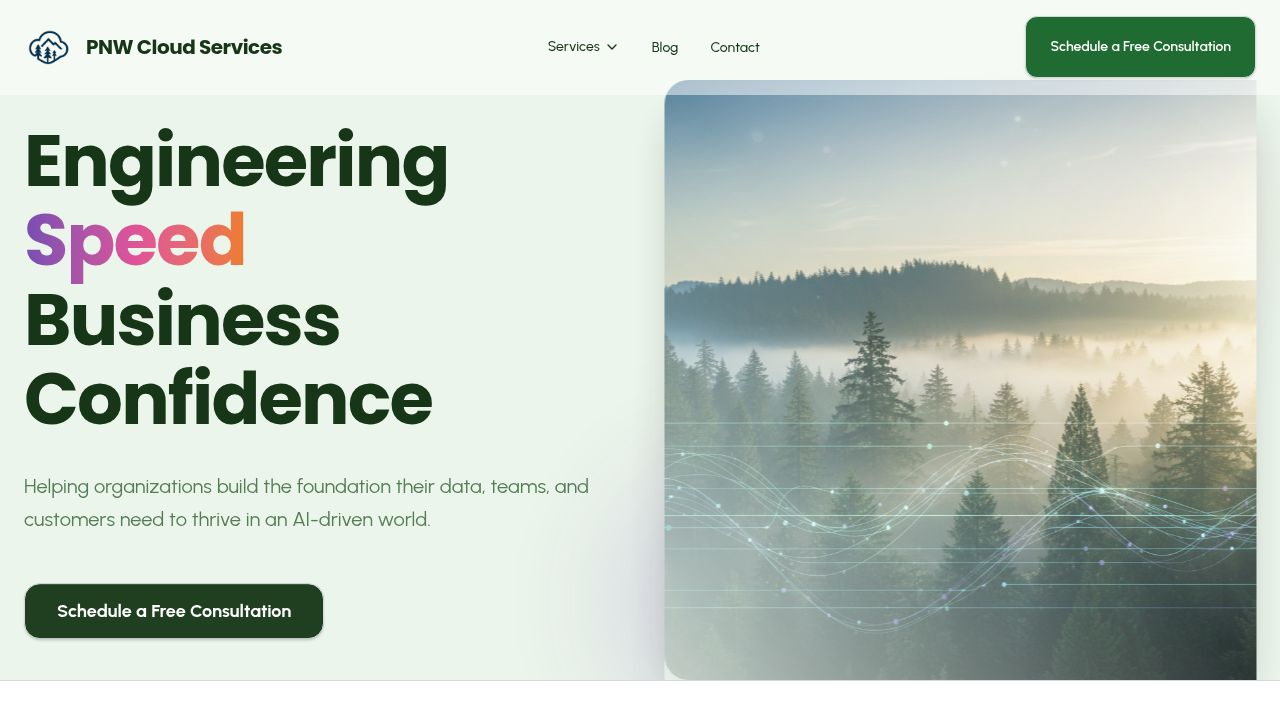
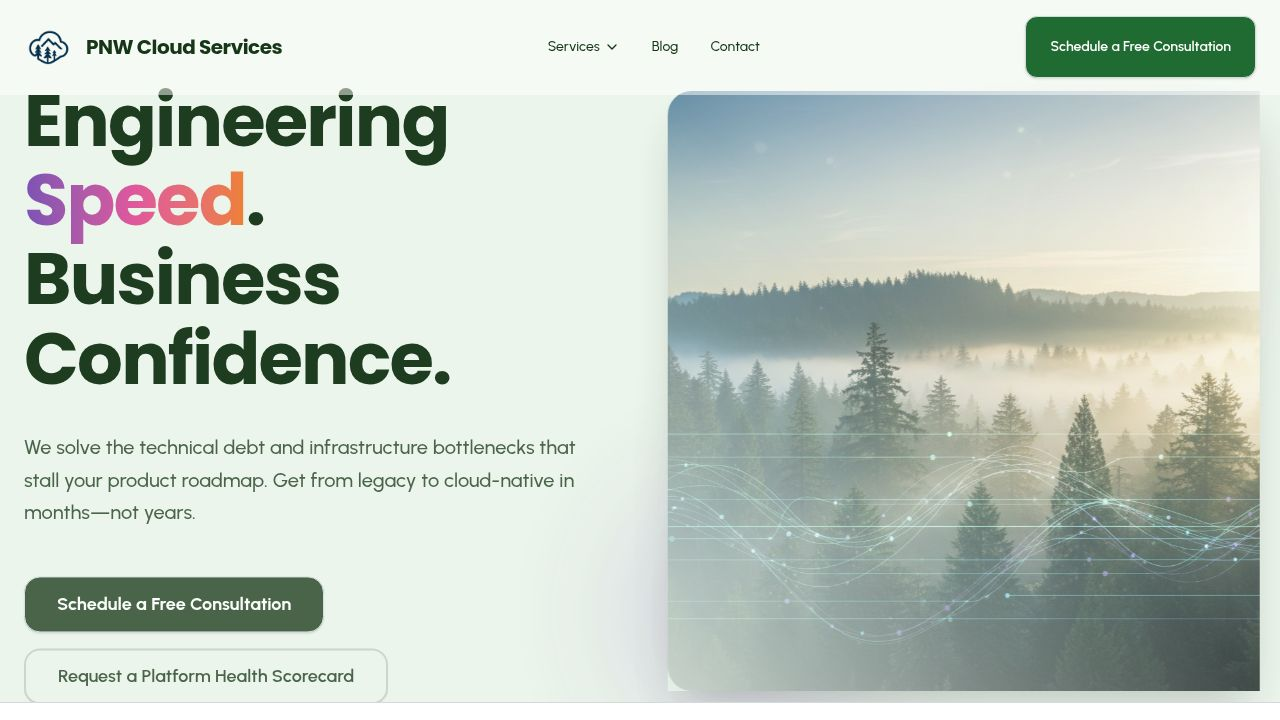
Update website content to emphasize platform modernization and improve clarity
Refactors multiple components including Hero, CTA, ServicesGrid, BlogTeaser, FounderSection, and Stats to align with new content strategy and platform modernization focus. Removes deprecated StartHere component.

Replit-Commit-Author: Agent
Replit-Commit-Session-Id: 9c46f585-9faa-40ad-9e28-5df7e6b5c965
Replit-Commit-Checkpoint-Type: intermediate_checkpoint
Replit-Commit-Event-Id: 414b0277-9a25-4741-8f1c-1562fce32e4d
Replit-Commit-Screenshot-Url: https://storage.googleapis.com/screenshot-production-us-central1/e0d0b5d5-0989-45e9-a5cc-da82de3c706e/9c46f585-9faa-40ad-9e28-5df7e6b5c965/rGMePfd
Replit-Helium-Checkpoint-Created: true

diff --git a/client/src/components/home/services-grid.tsx b/client/src/components/home/services-grid.tsx
@@ -1,58 +1,102 @@
-import { Cloud, Bot, Terminal, Activity, Shield, TrendingDown, ArrowRight } from "lucide-react";
+import { Layout, Cloud, Bot, Terminal, Activity, Shield, TrendingDown, ArrowRight } from "lucide-react";
 import { Link } from "wouter";
 
 const services = [
   {
+    title: "Platform Modernization",
+    description: "Turn fragile legacy systems into platforms built to scale. We modernize monoliths and aging infrastructure into cloud-native platforms that support faster delivery, safer change, and long-term growth—without rewriting your business overnight.",
+    icon: Layout,
+    href: "/platform-modernization",
+    isPrimary: true
+  },
+  {
     title: "Salesforce & CRM Strategy",
-    description: "Align CRM architecture with your go-to-market strategy to accelerate revenue and improve customer insights.",
+    description: "Make your CRM a growth engine, not a workflow bottleneck. We design Salesforce architectures that align data, teams, and automation—so your CRM supports revenue scale instead of slowing it down.",
     icon: Cloud,
-    href: "/salesforce-crm-strategy"
+    href: "/salesforce-crm-strategy",
+    isPrimary: false
   },
   {
     title: "AI & Automation",
-    description: "Deploy intelligent agents and automate complex workflows—responsibly and at scale.",
+    description: "Automate the work that shouldn't need human judgment. We implement practical automation and AI workflows on top of stable platforms—reducing manual effort and improving accuracy without introducing fragility.",
     icon: Bot,
-    href: "/ai-automation"
+    href: "/ai-automation",
+    isPrimary: false
   },
   {
     title: "DevEx & DevOps",
-    description: "Accelerate delivery with internal developer platforms and automated CI/CD pipelines.",
+    description: "Ship changes confidently without breaking production. We build pipelines, environments, and developer tooling that make releases predictable, repeatable, and boring—in the best way.",
     icon: Terminal,
-    href: "/devex-devops"
+    href: "/devex-devops",
+    isPrimary: false
   },
   {
     title: "Observability",
-    description: "Gain visibility into system health to reduce mean time to resolution and improve reliability.",
+    description: "Know what's broken before your customers do. We implement end-to-end visibility so teams can detect issues early, resolve them faster, and understand how system health impacts the business.",
     icon: Activity,
-    href: "/observability"
+    href: "/observability",
+    isPrimary: false
   },
   {
     title: "Compliance & Governance",
-    description: "Operationalize compliance for TCPA, CPRA, and GDPR without slowing delivery.",
+    description: "Build guardrails that enable speed instead of blocking it. We embed security, compliance, and data governance directly into platform design—so teams move fast without creating risk.",
     icon: Shield,
-    href: "/compliance-governance"
+    href: "/compliance-governance",
+    isPrimary: false
   },
   {
     title: "Cloud Strategy & Cost Optimization",
-    description: "Right-size infrastructure and reduce cloud spend while improving performance.",
+    description: "Reduce cloud spend by fixing architecture, not cutting corners. We help teams understand where costs come from, why they grow, and how to optimize sustainably without sacrificing reliability.",
     icon: TrendingDown,
-    href: "/cloud-strategy-cost-optimization"
+    href: "/cloud-strategy-cost-optimization",
+    isPrimary: false
   }
 ];
 
 export function ServicesGrid() {
+  const primaryService = services.find(s => s.isPrimary);
+  const supportingServices = services.filter(s => !s.isPrimary);
+
   return (
     <section className="py-24 bg-white">
       <div className="container mx-auto px-6">
         <div className="text-center max-w-3xl mx-auto mb-16">
-          <h2 className="text-3xl md:text-4xl font-bold text-primary mb-4">Supporting Capabilities</h2>
-          <p className="text-lg text-foreground/70 font-medium">
-            We don't hand over a slide deck. We embed with your team to design, build, and ship production-ready platforms.
+          <h2 className="text-3xl md:text-4xl font-bold text-primary mb-4">Start with the Platform. Everything Else Builds on It.</h2>
+          <p className="text-lg text-foreground/80 font-medium">
+            We don't deliver slide decks. We embed with teams to design, build, and ship production-ready platforms.
           </p>
         </div>
 
+        {primaryService && (
+          <div className="max-w-4xl mx-auto mb-12">
+            <Link 
+              href={primaryService.href}
+              className="group block bg-primary/5 p-8 md:p-10 rounded-2xl border-2 border-primary/20 hover:border-secondary/40 shadow-sm hover:shadow-lg transition-all duration-300"
+              data-testid="service-card-platform-modernization"
+            >
+              <div className="flex flex-col md:flex-row gap-6 items-start">
+                <div className="w-16 h-16 bg-primary/10 rounded-xl flex items-center justify-center flex-shrink-0 group-hover:bg-secondary/10 transition-colors">
+                  <primaryService.icon className="w-8 h-8 text-primary group-hover:text-secondary transition-colors" />
+                </div>
+                <div className="flex-1">
+                  <div className="flex items-center gap-3 mb-2">
+                    <span className="text-xs font-bold uppercase tracking-wider text-secondary bg-secondary/10 px-2 py-1 rounded">Start here</span>
+                  </div>
+                  <h3 className="text-2xl md:text-3xl font-bold text-primary mb-3 group-hover:text-secondary transition-colors">{primaryService.title}</h3>
+                  <p className="text-foreground/80 font-medium leading-relaxed mb-4">
+                    {primaryService.description}
+                  </p>
+                  <div className="flex items-center text-sm font-bold text-secondary">
+                    See how we modernize platforms <ArrowRight className="w-4 h-4 ml-2" />
+                  </div>
+                </div>
+              </div>
+            </Link>
+          </div>
+        )}
+
         <div className="grid md:grid-cols-2 lg:grid-cols-3 gap-6">
-          {services.map((service, index) => (
+          {supportingServices.map((service, index) => (
             <Link 
               key={index} 
               href={service.href}
@@ -62,8 +106,8 @@ export function ServicesGrid() {
               <div className="w-12 h-12 bg-primary/5 rounded-md flex items-center justify-center mb-4 group-hover:bg-secondary/10 transition-colors">
                 <service.icon className="w-6 h-6 text-primary group-hover:text-secondary transition-colors" />
               </div>
-              <h3 className="text-xl font-bold text-foreground mb-2 group-hover:text-secondary transition-colors">{service.title}</h3>
-              <p className="text-sm text-foreground/70 font-medium mb-6 flex-grow">
+              <h3 className="text-xl font-bold text-foreground mb-3 group-hover:text-secondary transition-colors">{service.title}</h3>
+              <p className="text-sm text-foreground/80 font-medium mb-6 flex-grow leading-relaxed">
                 {service.description}
               </p>
               <div className="flex items-center text-sm font-bold text-secondary opacity-0 group-hover:opacity-100 transition-opacity transform translate-y-2 group-hover:translate-y-0">

diff --git a/client/src/components/home/hero.tsx b/client/src/components/home/hero.tsx
@@ -1,11 +1,6 @@
 import heroImage from "@assets/hero-forest-nature-tech.png";
-import { ScheduleFreeConsultationCTA } from "@/components/ScheduleFreeConsultationCTA";
-import { Button } from "@/components/ui/button";
-import { useContactModal } from "@/contexts/ContactModalContext";
 
 export function Hero() {
-  const { openContactModal } = useContactModal();
-
   return (
     <section className="relative min-h-[90vh] flex items-center pt-20 overflow-hidden bg-background">
       <div className="container mx-auto px-6 grid lg:grid-cols-2 gap-12 items-center z-10 relative">
@@ -16,27 +11,9 @@ export function Hero() {
             Business Confidence.
           </h1>
           
-          <p className="text-xl text-foreground/80 max-w-xl leading-relaxed font-medium animate-in slide-in-from-bottom-5 duration-1000 delay-200 fade-in">
-            We modernize the platforms behind your product so your teams can move faster—and leadership can move forward with confidence.
+          <p className="text-xl text-foreground/90 max-w-xl leading-relaxed font-medium animate-in slide-in-from-bottom-5 duration-1000 delay-200 fade-in">
+            We solve the technical debt and infrastructure bottlenecks that stall your product roadmap. Get from legacy to cloud-native in months—not years.
           </p>
-
-          <div className="flex flex-wrap gap-4 pt-4 animate-in slide-in-from-bottom-5 duration-1000 delay-300 fade-in">
-            <ScheduleFreeConsultationCTA
-              source="hero"
-              variant="primary"
-              size="lg"
-              className="rounded-xl h-14 px-8 text-lg shadow-sm"
-            />
-            <Button
-              variant="outline"
-              size="lg"
-              onClick={() => openContactModal("Platform Health Scorecard")}
-              className="rounded-xl h-14 px-8 text-lg border-2 border-primary/20 hover:border-primary/40 hover:bg-primary/5 text-primary font-semibold"
-              data-testid="button-platform-health-scorecard"
-            >
-              Request a Platform Health Scorecard
-            </Button>
-          </div>
         </div>
 
         <div className="relative h-[600px] w-full hidden lg:block animate-in slide-in-from-right-5 duration-1000 delay-200 fade-in">

diff --git a/client/src/components/home/stats.tsx b/client/src/components/home/stats.tsx
@@ -4,7 +4,7 @@ const stats = [
   {
     value: "$11B+",
     label: "Revenue Influenced",
-    description: "Platforms powering growth at global scale",
+    description: "Platforms supporting mission-critical growth at global scale",
     icon: DollarSign,
     color: "text-accent-orange",
     bg: "bg-accent-orange/10"
@@ -12,7 +12,7 @@ const stats = [
   {
     value: "80%",
     label: "Faster Deployment Velocity",
-    description: "From manual releases to on-demand delivery",
+    description: "From manual releases to safe, on-demand delivery",
     icon: Zap,
     color: "text-secondary",
     bg: "bg-secondary/10"
@@ -20,7 +20,7 @@ const stats = [
   {
     value: "$450K+",
     label: "Annual Cost Savings",
-    description: "Infrastructure and tooling optimized for efficiency",
+    description: "Infrastructure optimized through architecture—not shortcuts",
     icon: TrendingUp,
     color: "text-accent-purple",
     bg: "bg-accent-purple/10"
@@ -32,9 +32,9 @@ export function Stats() {
     <section className="py-20 bg-white border-y border-border">
       <div className="container mx-auto px-6">
         <div className="text-center max-w-3xl mx-auto mb-12">
-          <h2 className="text-3xl md:text-4xl font-bold text-primary mb-3">Proven at Enterprise Scale</h2>
-          <p className="text-lg text-foreground/70 font-medium">
-            Outcomes delivered across complex, regulated, enterprise environments.
+          <h2 className="text-3xl md:text-4xl font-bold text-primary mb-3">Built in Real Enterprise Environments</h2>
+          <p className="text-lg text-foreground/80 font-medium">
+            Platforms engineered inside complex, regulated, high-scale organizations.
           </p>
         </div>
         <div className="grid md:grid-cols-3 gap-8">
@@ -53,7 +53,7 @@ export function Stats() {
               <div className="text-foreground font-semibold uppercase tracking-wider text-sm mb-2">
                 {stat.label}
               </div>
-              <div className="text-foreground/70 text-sm font-medium">
+              <div className="text-foreground/80 text-sm font-medium">
                 {stat.description}
               </div>
             </div>

diff --git a/client/src/components/home/cta.tsx b/client/src/components/home/cta.tsx
@@ -1,9 +1,6 @@
 import { ScheduleFreeConsultationCTA } from "@/components/ScheduleFreeConsultationCTA";
-import { useContactModal } from "@/contexts/ContactModalContext";
 
 export function CTA() {
-  const { openContactModal } = useContactModal();
-
   return (
     <section className="py-24 bg-primary relative overflow-hidden">
       <div className="absolute inset-0 bg-[url('https://www.transparenttextures.com/patterns/cubes.png')] opacity-10 mix-blend-multiply"></div>
@@ -12,24 +9,15 @@ export function CTA() {
         <h2 className="text-4xl md:text-5xl font-bold text-white mb-6">
           Let's talk about your platforms.
         </h2>
-        <p className="text-xl text-white/80 font-medium max-w-2xl mx-auto mb-10">
+        <p className="text-xl text-white/90 font-medium max-w-2xl mx-auto mb-10">
           Ready to modernize? Schedule a free consultation to discuss your goals and challenges.
         </p>
-        <div className="flex flex-wrap justify-center gap-4">
-          <ScheduleFreeConsultationCTA
-            source="home-cta"
-            variant="primary"
-            size="lg"
-            className="h-14 px-10 text-lg rounded-xl shadow-lg hover:shadow-xl bg-secondary hover:bg-secondary/90"
-          />
-          <button
-            onClick={() => openContactModal()}
-            className="h-14 px-10 text-lg rounded-xl font-semibold border-2 border-white/30 text-white hover:bg-white/10 transition-colors"
-            data-testid="button-contact-cta"
-          >
-            Contact Us
-          </button>
-        </div>
+        <ScheduleFreeConsultationCTA
+          source="home-cta"
+          variant="primary"
+          size="lg"
+          className="h-14 px-10 text-lg rounded-xl shadow-lg hover:shadow-xl bg-secondary hover:bg-secondary/90"
+        />
       </div>
     </section>
   );

diff --git a/client/src/components/home/start-here.tsx b/client/src/components/home/start-here.tsx
@@ -21,11 +21,11 @@ export function StartHere() {
                 <h2 className="text-3xl md:text-4xl font-bold text-primary">
                   Platform Modernization
                 </h2>
-                <p className="text-lg text-foreground/80 font-medium">
-                  Modernize the foundation your products run on.
+                <p className="text-lg text-foreground/90 font-medium">
+                  Turn fragile legacy systems into platforms built to scale.
                 </p>
-                <p className="text-foreground/70 leading-relaxed">
-                  We help organizations modernize legacy platforms into secure, scalable foundations—so every team above the stack can ship faster with confidence.
+                <p className="text-foreground/80 leading-relaxed font-medium">
+                  We modernize monoliths and aging infrastructure into cloud-native platforms that support faster delivery, safer change, and long-term growth—without rewriting your business overnight.
                 </p>
                 
                 <div className="pt-4">
@@ -35,7 +35,7 @@ export function StartHere() {
                       className="bg-secondary hover:bg-secondary/90 text-white font-semibold rounded-xl h-12 px-6"
                       data-testid="button-explore-platform-modernization"
                     >
-                      Explore Platform Modernization
+                      See how we modernize platforms
                       <ArrowRight className="w-4 h-4 ml-2" />
                     </Button>
                   </Link>

diff --git a/client/src/components/home/founder-section.tsx b/client/src/components/home/founder-section.tsx
@@ -9,7 +9,7 @@ export function FounderSection() {
             <h2 className="text-3xl md:text-4xl font-bold text-primary mb-4">
               Founded by Platform Engineers
             </h2>
-            <p className="text-lg text-foreground/70 font-medium max-w-2xl mx-auto">
+            <p className="text-lg text-foreground/80 font-medium max-w-2xl mx-auto">
               PNW Cloud Services was founded by engineers who've built and operated platforms at enterprise scale. We don't sell frameworks—we ship systems alongside your team.
             </p>
           </div>
@@ -21,7 +21,7 @@ export function FounderSection() {
               </div>
               <h3 className="text-xl font-bold text-primary mb-1">Steven Washington</h3>
               <p className="text-secondary font-semibold mb-2">Founder</p>
-              <p className="text-foreground/70 text-sm font-medium">
+              <p className="text-foreground/80 text-sm font-medium">
                 15+ years platform, CRM, and DevOps leadership
               </p>
             </div>

diff --git a/client/src/components/home/blog-teaser.tsx b/client/src/components/home/blog-teaser.tsx
@@ -33,7 +33,7 @@ export function BlogTeaser() {
         <div className="flex flex-col md:flex-row justify-between items-end mb-12 gap-6">
           <div>
             <h2 className="text-3xl font-bold text-primary mb-2">Platform Insights</h2>
-            <p className="text-foreground/70 font-medium">How we think about platforms, AI enablement, and delivery at scale.</p>
+            <p className="text-foreground/80 font-medium">How we think about platforms, AI enablement, and delivery at scale.</p>
           </div>
           <Link href="/blog" className="text-secondary font-bold flex items-center hover:underline">
             View all posts <ArrowRight className="w-4 h-4 ml-2" />

diff --git a/client/src/pages/home.tsx b/client/src/pages/home.tsx
@@ -2,7 +2,6 @@ import { Navbar } from "@/components/layout/navbar";
 import { Footer } from "@/components/layout/footer";
 import { Hero } from "@/components/home/hero";
 import { Stats } from "@/components/home/stats";
-import { StartHere } from "@/components/home/start-here";
 import { ServicesGrid } from "@/components/home/services-grid";
 import { BlogTeaser } from "@/components/home/blog-teaser";
 import { FounderSection } from "@/components/home/founder-section";
@@ -15,7 +14,6 @@ export default function Home() {
       <main>
         <Hero />
         <Stats />
-        <StartHere />
         <ServicesGrid />
         <BlogTeaser />
         <FounderSection />
